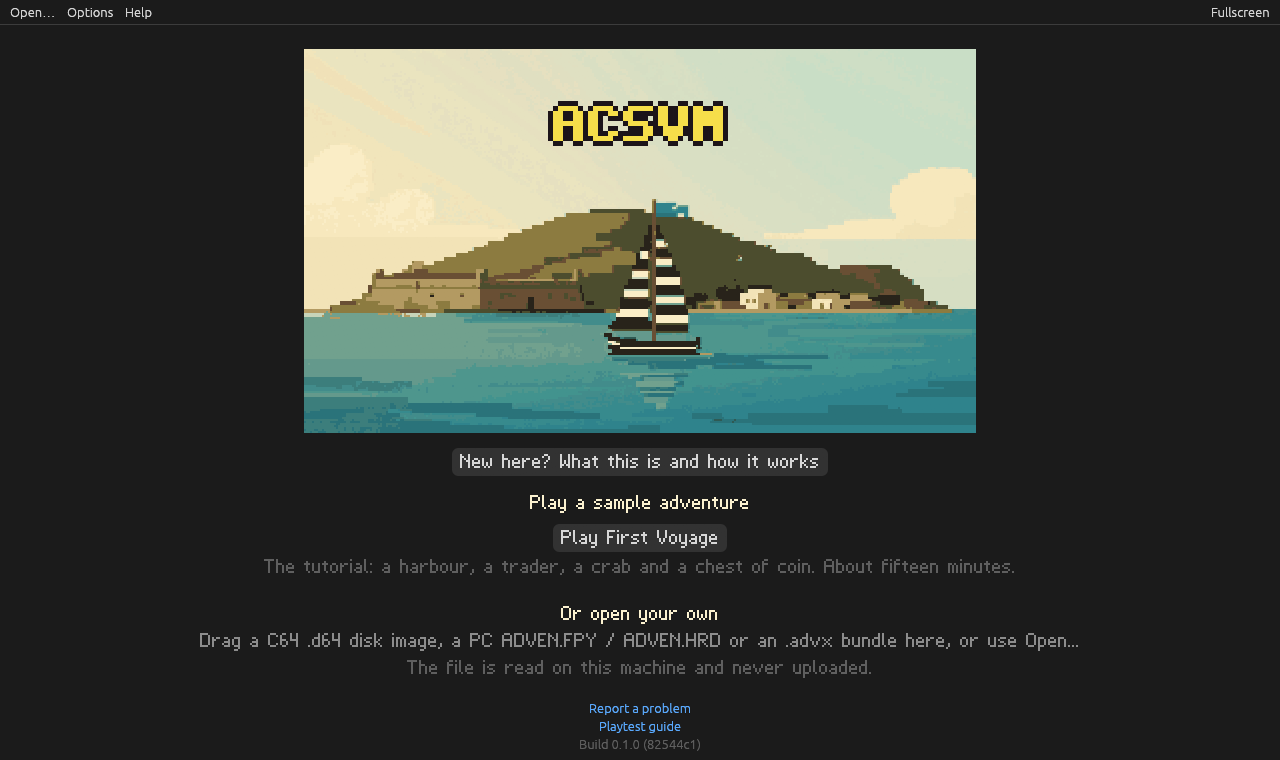
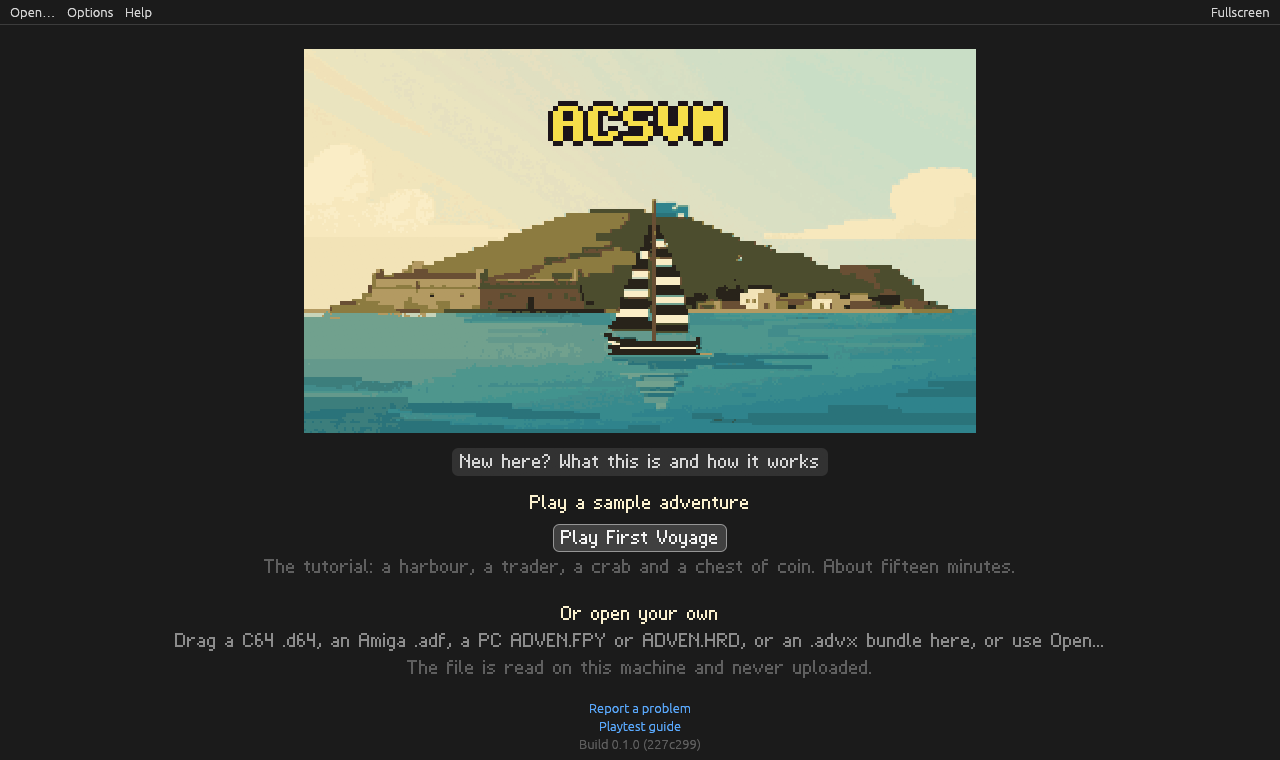
README: the files it opens by computer (C64 .d64, Amiga .adf or its adventure file, PC ADVEN.FPY/.HRD, .advx; Apple II not yet), and a section on Adventure Construction Set's history, what made it stand out and why it's worth preserving, from Wikipedia and the CRPG Addict, with further reading. The 

Changed region(s): [[0.1562, 0.8171, 0.8438, 0.8474], [0.4375, 0.6961, 0.5625, 0.7263]]

diff --git a/crates/acs-viewer/src/app.rs b/crates/acs-viewer/src/app.rs
@@ -1021,7 +1021,7 @@ impl Viewer {
                 ui.add_space(14.0);
                 ui.label(RichText::new("Or open your own").font(kit(22.0)).color(ink));
                 ui.label(
-                    RichText::new("Drag a C64 .d64 disk image, a PC ADVEN.FPY / ADVEN.HRD or an .advx bundle here, or use Open...")
+                    RichText::new("Drag a C64 .d64, an Amiga .adf, a PC ADVEN.FPY or ADVEN.HRD, or an .advx bundle here, or use Open...")
                         .font(kit(22.0)),
                 );
                 ui.label(
@@ -1052,7 +1052,7 @@ impl Viewer {
 const WELCOME: &[(&str, &str)] = &[
     ("", "{name} plays adventures made with Adventure Construction Set, the 1984 game kit, on today's computers: the original's rules, rebuilt and checked against the real thing."),
     ("Start with First Voyage", "The short tutorial on this screen: about fifteen minutes, with notes that explain each step as you reach it. It opens ready to play."),
-    ("Or bring your own", "A C64 disk image (.d64), a PC adventure (ADVEN.FPY or ADVEN.HRD) or an .advx bundle: drag it onto the window or use Open… at the top. The file stays on your machine."),
+    ("Or bring your own", "A C64 disk image (.d64), an Amiga disk image (.adf) or the adventure file from one, a PC adventure (ADVEN.FPY or ADVEN.HRD) or an .advx bundle: drag it onto the window or use Open… at the top. Apple II disks don't open yet. The file stays on your machine."),
     ("Explore, then Walk", "An adventure you open shows first in Explore: the world map, its regions and rooms, and lists of its things, creatures and messages, the way its designer built it. Walk, in the top bar, is where you play."),
     ("Help is in the Help menu", "How to play (keys, actions, stores and saving), this page, and the way to report a problem."),
 ];

diff --git a/README.md b/README.md
@@ -39,17 +39,63 @@ These screenshots are from *First Voyage*, drawn in our own pirate art.
 map, every region and room, and the lists of things, creatures and
 messages.
 
+## About *Adventure Construction Set*
+
+Stuart Smith wrote *Adventure Construction Set* (ACS) on a Commodore 64,
+in Forth, and Electronic Arts published it in 1984. Apple II, Amiga and
+MS-DOS versions followed by 1987. It came with a full adventure,
+*Rivers of Light*, based on the Epic of Gilgamesh. Its real point,
+though, was the editor: you drew your own pictures, laid out a world map,
+regions and rooms, filled them with treasure, traps and monsters, wrote
+the messages, and saved the result to a disk you could hand to a friend.
+
+ACS was the first construction set for graphical role-playing games. The
+text-only *Eamon* came earlier, but nothing like ACS followed until *The
+Bard's Tale Construction Set* in 1991 and *Unlimited Adventures* in 1993.
+For most of a decade, if you wanted to make your own graphical RPG, ACS
+was close to the only choice. What made it stand out:
+
+- **Your game on its own disk.** Each adventure was a disk anyone could
+  copy and pass on. A fan club and a newsletter grew up around trading
+  them.
+- **Up to four players** at one computer, taking turns.
+- **Creatures with personalities.** A designer could make a creature a
+  fighter or a slinker, and an enemy, a friend, a neutral or a thief, so
+  monsters fought each other as well as you.
+- **Skills that grow with use**, and weight that slows you down, both
+  rare in role-playing games of the time.
+- **A random adventure** made by the program itself (Auto-Construct),
+  built to the size and difficulty you asked for.
+
+Reviewers at the time disliked its fiddly interface. They also saw the
+point: anyone could make a game. Years later, when Bethesda began
+*Morrowind*, Todd Howard said he was excited to make a tool like the ACS
+he remembered from the Apple II.
+
+### Why it's worth preserving
+
+The adventures people made with ACS are small, odd and personal: made at
+home by players, traded by mail, and kept on floppy disks that are now
+forty years old. Many of the disk images online are damaged, and
+playing them means setting up an emulator for a 1980s computer and
+learning its controls. When those disks go, the games go with them.
+ACSVM keeps them playable on a modern computer or in a browser, so the
+people who made them, and anyone curious, can still play them.
+
+**Further reading:** [Wikipedia](https://en.wikipedia.org/wiki/Adventure_Construction_Set)
+· [MobyGames](https://www.mobygames.com/game/991) ·
+[The CRPG Addict's 2015 playthrough](http://crpgaddict.blogspot.com/2015/09/revisiting-adventure-construction.html)
+· [The CRPG Addict on *The Return of Heracles*](https://crpgaddict.blogspot.com/2014/07/game-153-return-of-heracles-1983.html),
+Smith's earlier game · Dan Boris's [ACS Viewer](https://github.com/danlb2000/ACSViewer),
+which first mapped the file format
+
 ## What you can do
 
 - **Play the tutorial.** Pick *First Voyage* on the title screen. Notes on
   the way explain moving, taking things, the store, a fight and a spell.
 - **Play your own adventures.** Drag a file onto the window, or use
-  Open…:
-  - a C64 `.d64` disk image
-  - a PC `ADVEN.FPY` or `ADVEN.HRD`
-  - an Amiga `.adf` disk image
-
-  The file is read on your computer and never uploaded.
+  Open…. The [table below](#which-files-it-opens) lists what it opens. The
+  file is read on your computer and never uploaded.
 - **Play together.** Several players take turns at one keyboard, the way
   the original was played. Up to four gamepads work as well.
 - **Save anywhere.** A save file holds only the seed and the moves played,
@@ -60,6 +106,19 @@ messages.
   replaces.
 - **Make it comfortable.** Larger text, a colour-blind palette, an
   on-screen touch pad, and a turn-based option so the game waits for you.
+
+## Which files it opens
+
+| Computer | Open this | Status |
+| --- | --- | --- |
+| Commodore 64 | the adventure's `.d64` disk image | Plays. Tested on fan adventures from several collections. |
+| Amiga | the adventure's `.adf` disk image, or the `adventure` file copied off it | Plays. Newer than the C64 and PC support, so less tested. |
+| PC (MS-DOS) | `ADVEN.FPY` or `ADVEN.HRD` from the adventure's folder | Plays. Tested on EA's built-in adventure only. |
+| ACSVM | an `.advx` bundle | Our own format for new adventures ([docs/content.md](docs/content.md)). |
+| Apple II | | **Not supported yet.** Its disks are laid out differently, and that reader isn't written. |
+
+Unzip downloaded disk images first. Other C64 formats (`.d71`, `.g64`,
+`.t64`, `.prg`) don't open.
 
 ## How faithful is it?
 
@@ -91,16 +150,6 @@ to hear from people who played ACS back in the day:
 Please don't attach saves or screenshots of EA's or other people's
 adventures to a public issue. The forms explain how to describe them
 instead.
-
-## Supported files
-
-| Platform | Files | Status |
-| --- | --- | --- |
-| Commodore 64 | `.d64` disk images | Plays. Tested on fan adventures from several collections. |
-| PC (MS-DOS) | `ADVEN.FPY`, `ADVEN.HRD` | Plays. Tested on EA's built-in adventure. |
-| Amiga | `.adf` disk images | Opens and plays. Newer, and less tested. |
-| ACSVM | `.advx` bundles | Our own format for new adventures ([docs/content.md](docs/content.md)) |
-| Apple II | `.dsk` | Not yet |
 
 ## Running it yourself
 

diff --git a/docs/playtest.md b/docs/playtest.md
@@ -13,8 +13,9 @@ uploaded.
 
 1. **First Voyage**, the tutorial on the title screen: about fifteen
    minutes, with notices that explain each step.
-2. **Your own adventures**: a C64 `.d64` disk image, or a PC
-   `ADVEN.FPY` / `ADVEN.HRD`. Drag the file onto the page or use
+2. **Your own adventures**: a C64 `.d64` disk image, an Amiga `.adf`
+   disk image (or the `adventure` file from one), or a PC
+   `ADVEN.FPY` / `ADVEN.HRD`. Apple II disks don't open yet. Drag the file onto the page or use
    **Open...**. Fan adventures are especially welcome. Every adventure
    you bring is a check of the rules we can't run ourselves.
 3. **Hot-seat**: Add Someone brings in up to four characters, who take
